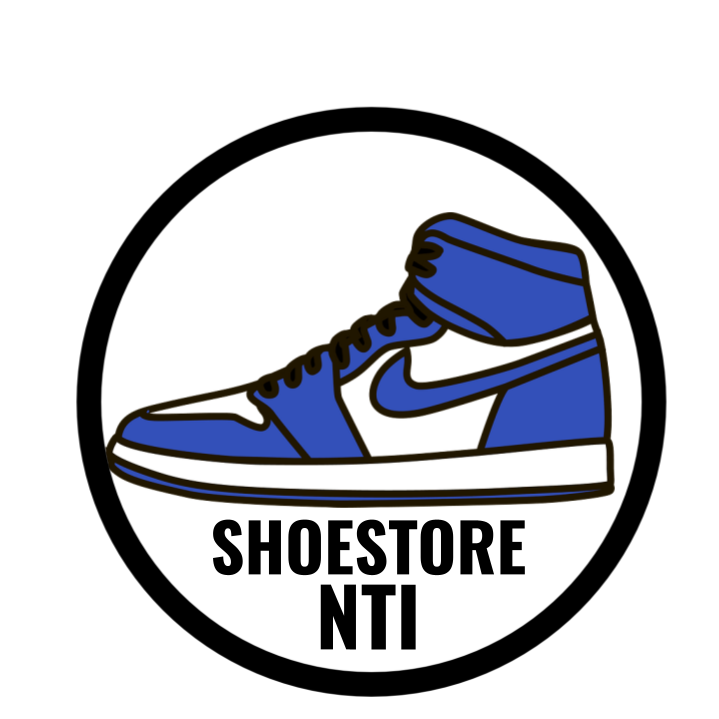
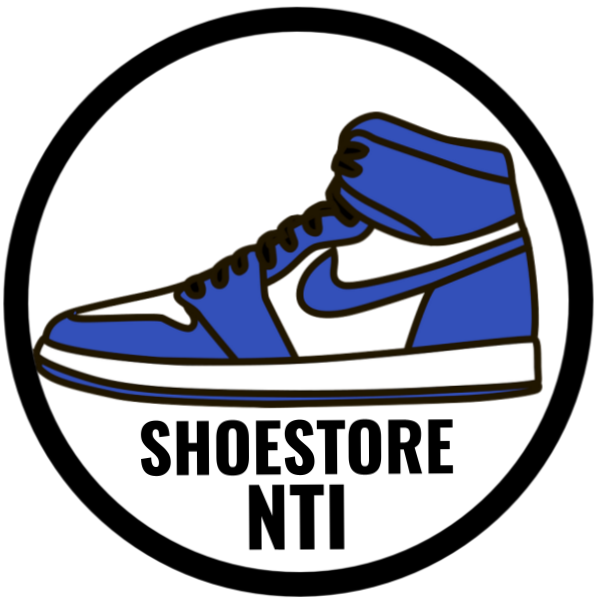
FIXADE ALLA LÄNKAR. Lagt in loggan i navbar.

diff --git a/Allshoes.html b/Allshoes.html
@@ -13,15 +13,14 @@
         <!-- Core theme CSS (includes Bootstrap)-->
         <link href="css/styles.css" rel="stylesheet" />
         <script src="kundvagn/webstorage.js"></script> 
-        <link href="css/overridestyles.css" rel="stylesheet" />
-        
+        <link href="css/overridestyles.css" rel="stylesheet" />  
     </head>
     <body onload=getKundkorg()>
     <div class="content">
         <!-- Navigation-->
         <nav class="navbar navbar-expand-lg navbar-light bg-light sticky-top" id="navbar">
             <div class="container px-4 px-lg-5">
-                <a class="navbar-brand" href="index.html">HEM</a>
+                <a class="navbar-brand" href="index.html"><img src="../Images/logga.png" style="height: 55px;"></a>
                 <button class="navbar-toggler" type="button" data-bs-toggle="collapse" data-bs-target="#navbarSupportedContent" aria-controls="navbarSupportedContent" aria-expanded="false" aria-label="Toggle navigation"><span class="navbar-toggler-icon"></span></button>
                 <div class="collapse navbar-collapse" id="navbarSupportedContent">
                     <ul class="navbar-nav me-auto mb-2 mb-lg-0 ms-lg-4">
@@ -32,9 +31,9 @@
                         <li class="nav-item"><a class="nav-link" href="About\About.html">Om oss</a></li>
                     </ul>
                     <a class="btn btn-outline-dark" href="kundvagn\kundvagn.html" type="button">
-                            <i class="bi-cart-fill me-1"></i>
-                            Kundvagn
-                            <span class="badge bg-dark text-white ms-1 rounded-pill" id="antalProdukter">0</span>
+                        <i class="bi-cart-fill me-1"></i>
+                        Kundvagn
+                        <span class="badge bg-dark text-white ms-1 rounded-pill" id="antalProdukter">0</span>
                     </a>
                 </div>
             </div>
@@ -44,8 +43,6 @@
             <div class="container px-4 px-lg-5 my-5">
                 <div class="text-center text-white">
                     <h1 class="display-4 fw-bolder">Alla skor</h1>
-                    
-                        
                 </div>
             </div>
         </header>

diff --git a/About/About.html b/About/About.html
@@ -16,11 +16,11 @@
         <script src="../kundvagn/webstorage.js"></script> 
     </head>
     <body onload=getKundkorg()>
+        <div class="content">
          <!-- Navigation-->
-         <div class="content">
-        <nav class="navbar navbar-expand-lg navbar-light bg-light sticky-top">
+         <nav class="navbar navbar-expand-lg navbar-light bg-light sticky-top">
             <div class="container px-4 px-lg-5">
-                <a class="navbar-brand" href="../index.html">HEM</a>
+                <a class="navbar-brand" href="../index.html"><img src="../Images/logga.png" style="height: 55px;"></a>
                 <button class="navbar-toggler" type="button" data-bs-toggle="collapse" data-bs-target="#navbarSupportedContent" aria-controls="navbarSupportedContent" aria-expanded="false" aria-label="Toggle navigation"><span class="navbar-toggler-icon"></span></button>
                 <div class="collapse navbar-collapse" id="navbarSupportedContent">
                     <ul class="navbar-nav me-auto mb-2 mb-lg-0 ms-lg-4">
@@ -28,7 +28,7 @@
                         <li class="nav-item"><a class="nav-link" href="../Mens.html">Herr </a></li>
                         <li class="nav-item"><a class="nav-link" href="../Woman.html">Dam</a></li> 
                         <li class="nav-item"><a class="nav-link" href="../Kids.html">Barn</a></li>
-                        <li class="nav-item"><a class="nav-link" href="About.html">Om oss</a></li>
+                        <li class="nav-item"><a class="nav-link" href="About/About.html">Om oss</a></li>
                     </ul>
                     <a class="btn btn-outline-dark" href="../kundvagn\kundvagn.html" type="button">
                             <i class="bi-cart-fill me-1"></i>

diff --git a/About/Jobb.html b/About/Jobb.html
@@ -20,7 +20,7 @@
         <div class="content">
         <nav class="navbar navbar-expand-lg navbar-light bg-light sticky-top">
             <div class="container px-4 px-lg-5">
-                <a class="navbar-brand" href="../index.html">HEM</a>
+                <a class="navbar-brand" href="../index.html"><img src="../Images/logga.png" style="height: 55px;"></a>
                 <button class="navbar-toggler" type="button" data-bs-toggle="collapse" data-bs-target="#navbarSupportedContent" aria-controls="navbarSupportedContent" aria-expanded="false" aria-label="Toggle navigation"><span class="navbar-toggler-icon"></span></button>
                 <div class="collapse navbar-collapse" id="navbarSupportedContent">
                     <ul class="navbar-nav me-auto mb-2 mb-lg-0 ms-lg-4">

diff --git a/kundvagn/kundvagn.html b/kundvagn/kundvagn.html
@@ -20,7 +20,7 @@
         <!-- Navigation-->
         <nav class="navbar navbar-expand-lg navbar-light bg-light sticky-top">
             <div class="container px-4 px-lg-5">
-                <a class="navbar-brand" href="../index.html">HEM</a>
+                <a class="navbar-brand" href="../index.html"><img src="../Images/logga.png" style="height: 55px;"></a>
                 <button class="navbar-toggler" type="button" data-bs-toggle="collapse" data-bs-target="#navbarSupportedContent" aria-controls="navbarSupportedContent" aria-expanded="false" aria-label="Toggle navigation"><span class="navbar-toggler-icon"></span></button>
                 <div class="collapse navbar-collapse" id="navbarSupportedContent">
                     <ul class="navbar-nav me-auto mb-2 mb-lg-0 ms-lg-4">

diff --git a/Kids.html b/Kids.html
@@ -20,7 +20,7 @@
         <!-- Navigation-->
         <nav class="navbar navbar-expand-lg navbar-light bg-light sticky-top">
             <div class="container px-4 px-lg-5">
-                <a class="navbar-brand" href="index.html">HEM</a>
+                <a class="navbar-brand" href="index.html"><img src="Images/logga.png" style="height: 55px;"></a>
                 <button class="navbar-toggler" type="button" data-bs-toggle="collapse" data-bs-target="#navbarSupportedContent" aria-controls="navbarSupportedContent" aria-expanded="false" aria-label="Toggle navigation"><span class="navbar-toggler-icon"></span></button>
                 <div class="collapse navbar-collapse" id="navbarSupportedContent">
                     <ul class="navbar-nav me-auto mb-2 mb-lg-0 ms-lg-4">

diff --git a/Mens.html b/Mens.html
@@ -20,7 +20,7 @@
         <!-- Navigation-->
         <nav class="navbar navbar-expand-lg navbar-light bg-light sticky-top">
             <div class="container px-4 px-lg-5">
-                <a class="navbar-brand" href="index.html">HEM</a>
+                <a class="navbar-brand" href="index.html"><img src="Images/logga.png" style="height: 55px;"></a>
                 <button class="navbar-toggler" type="button" data-bs-toggle="collapse" data-bs-target="#navbarSupportedContent" aria-controls="navbarSupportedContent" aria-expanded="false" aria-label="Toggle navigation"><span class="navbar-toggler-icon"></span></button>
                 <div class="collapse navbar-collapse" id="navbarSupportedContent">
                     <ul class="navbar-nav me-auto mb-2 mb-lg-0 ms-lg-4">

diff --git a/Woman.html b/Woman.html
@@ -20,7 +20,7 @@
         <!-- Navigation-->
         <nav class="navbar navbar-expand-lg navbar-light bg-light sticky-top">
             <div class="container px-4 px-lg-5">
-                <a class="navbar-brand" href="index.html">HEM</a>
+                <a class="navbar-brand" href="index.html"><img src="Images/logga.png" style="height: 55px;"></a>
                 <button class="navbar-toggler" type="button" data-bs-toggle="collapse" data-bs-target="#navbarSupportedContent" aria-controls="navbarSupportedContent" aria-expanded="false" aria-label="Toggle navigation"><span class="navbar-toggler-icon"></span></button>
                 <div class="collapse navbar-collapse" id="navbarSupportedContent">
                     <ul class="navbar-nav me-auto mb-2 mb-lg-0 ms-lg-4">

diff --git a/index.html b/index.html
@@ -19,7 +19,7 @@
         <!-- Navigation-->
         <nav class="navbar navbar-expand-lg navbar-light bg-light sticky-top">
             <div class="container px-4 px-lg-5">
-                <a class="navbar-brand">HEM</a>
+                <a class="navbar-brand" href="index.html"><img src="Images/logga.png" style="height: 55px;"></a>
                 <button class="navbar-toggler" type="button" data-bs-toggle="collapse" data-bs-target="#navbarSupportedContent" aria-controls="navbarSupportedContent" aria-expanded="false" aria-label="Toggle navigation"><span class="navbar-toggler-icon"></span></button>
                 <div class="collapse navbar-collapse" id="navbarSupportedContent">
                     <ul class="navbar-nav me-auto mb-2 mb-lg-0 ms-lg-4">
